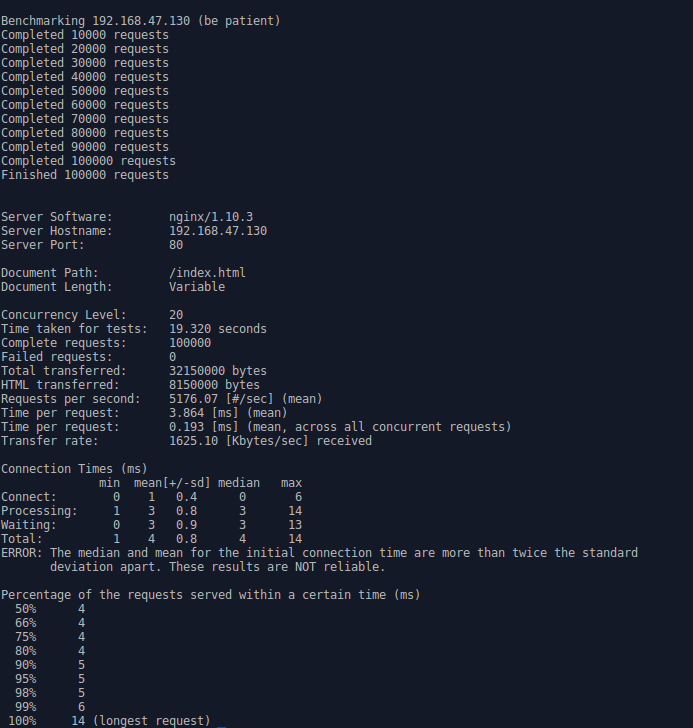
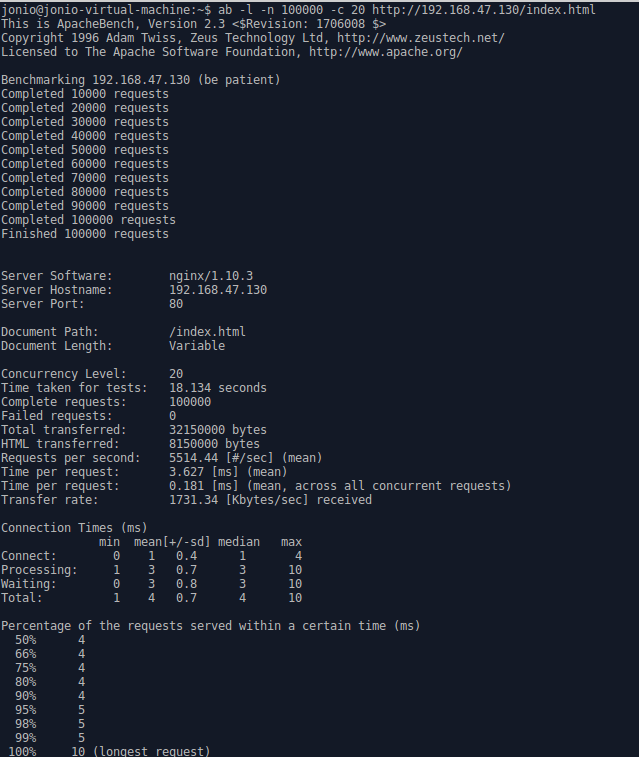
update

Changed region(s): [[0.0, 0.0, 0.9515, 1.0]]

diff --git a/practica3/Documentacion.md b/practica3/Documentacion.md
@@ -85,7 +85,14 @@ En mi caso estaba teniendo problemas con que tenía peticiones con estado failed
  Esta opción es para cuando se tiene paginas dinámicas, que en mi caso supongo que pasa porque el mensaje de carga de index.html que hay en cada máquina servidora cambia y por eso existe este error.
 
 ![img](https://github.com/jonio1992/SWAP/blob/master/practica3/img/nginx.png)  
+** test ab para nginx **
 
 ![img](https://github.com/jonio1992/SWAP/blob/master/practica3/img/haproxy.png)  
+
+** test ab para haproxy **
+
+Los test se han ejecutado en un ordenador sobremesa con algo mejor de CPU y tuve que cambiar las ip que ya que cambiaban de mi portatil al sobremesa en las maquinas virtuales.
+
+Me ha salido que el test con los mismo parametros de carga y concurrencia, nginx es más rápido que haproxy sirviendo la carga de peticiones. También hay que recalcar que los tiempo de establecer la conecxión, tiempo necesario para servir una respuesta, y tiempo para obtener los primeros bit de la respuesta son menores en nginx que en haproxy aunque vemos que haproxy es menor en media de peticiones atendidas por segundo, aunque casi similar entre los dos balanceadores. Conclusión, me quedaría con nginx.
 
 
